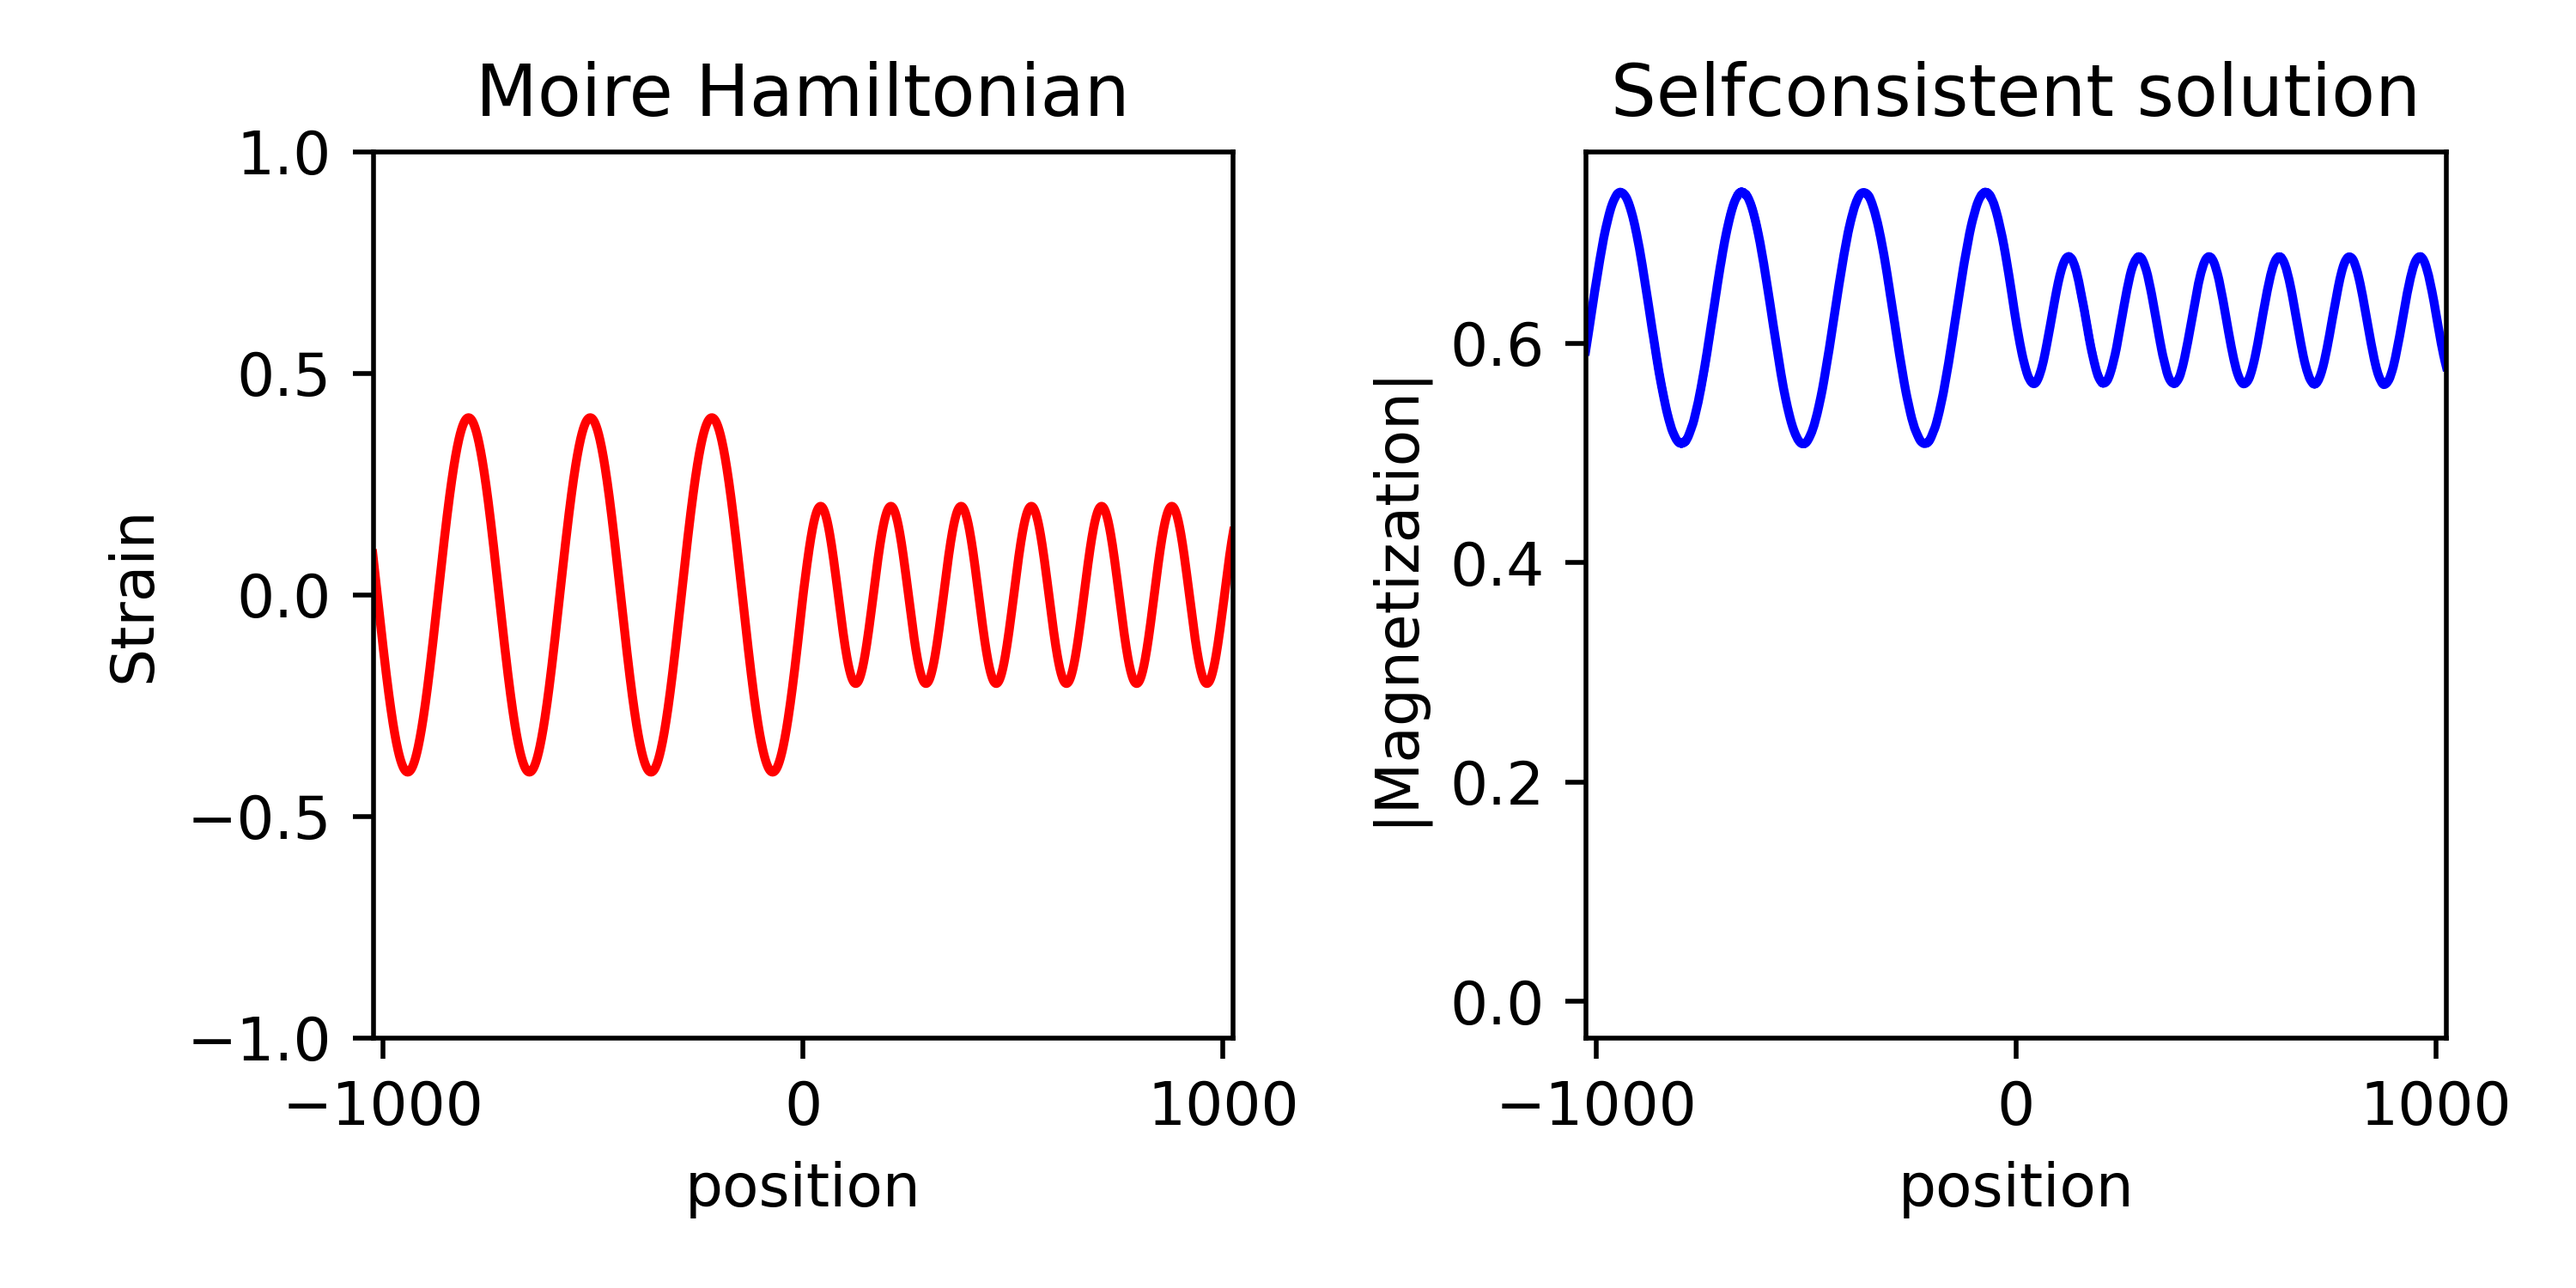
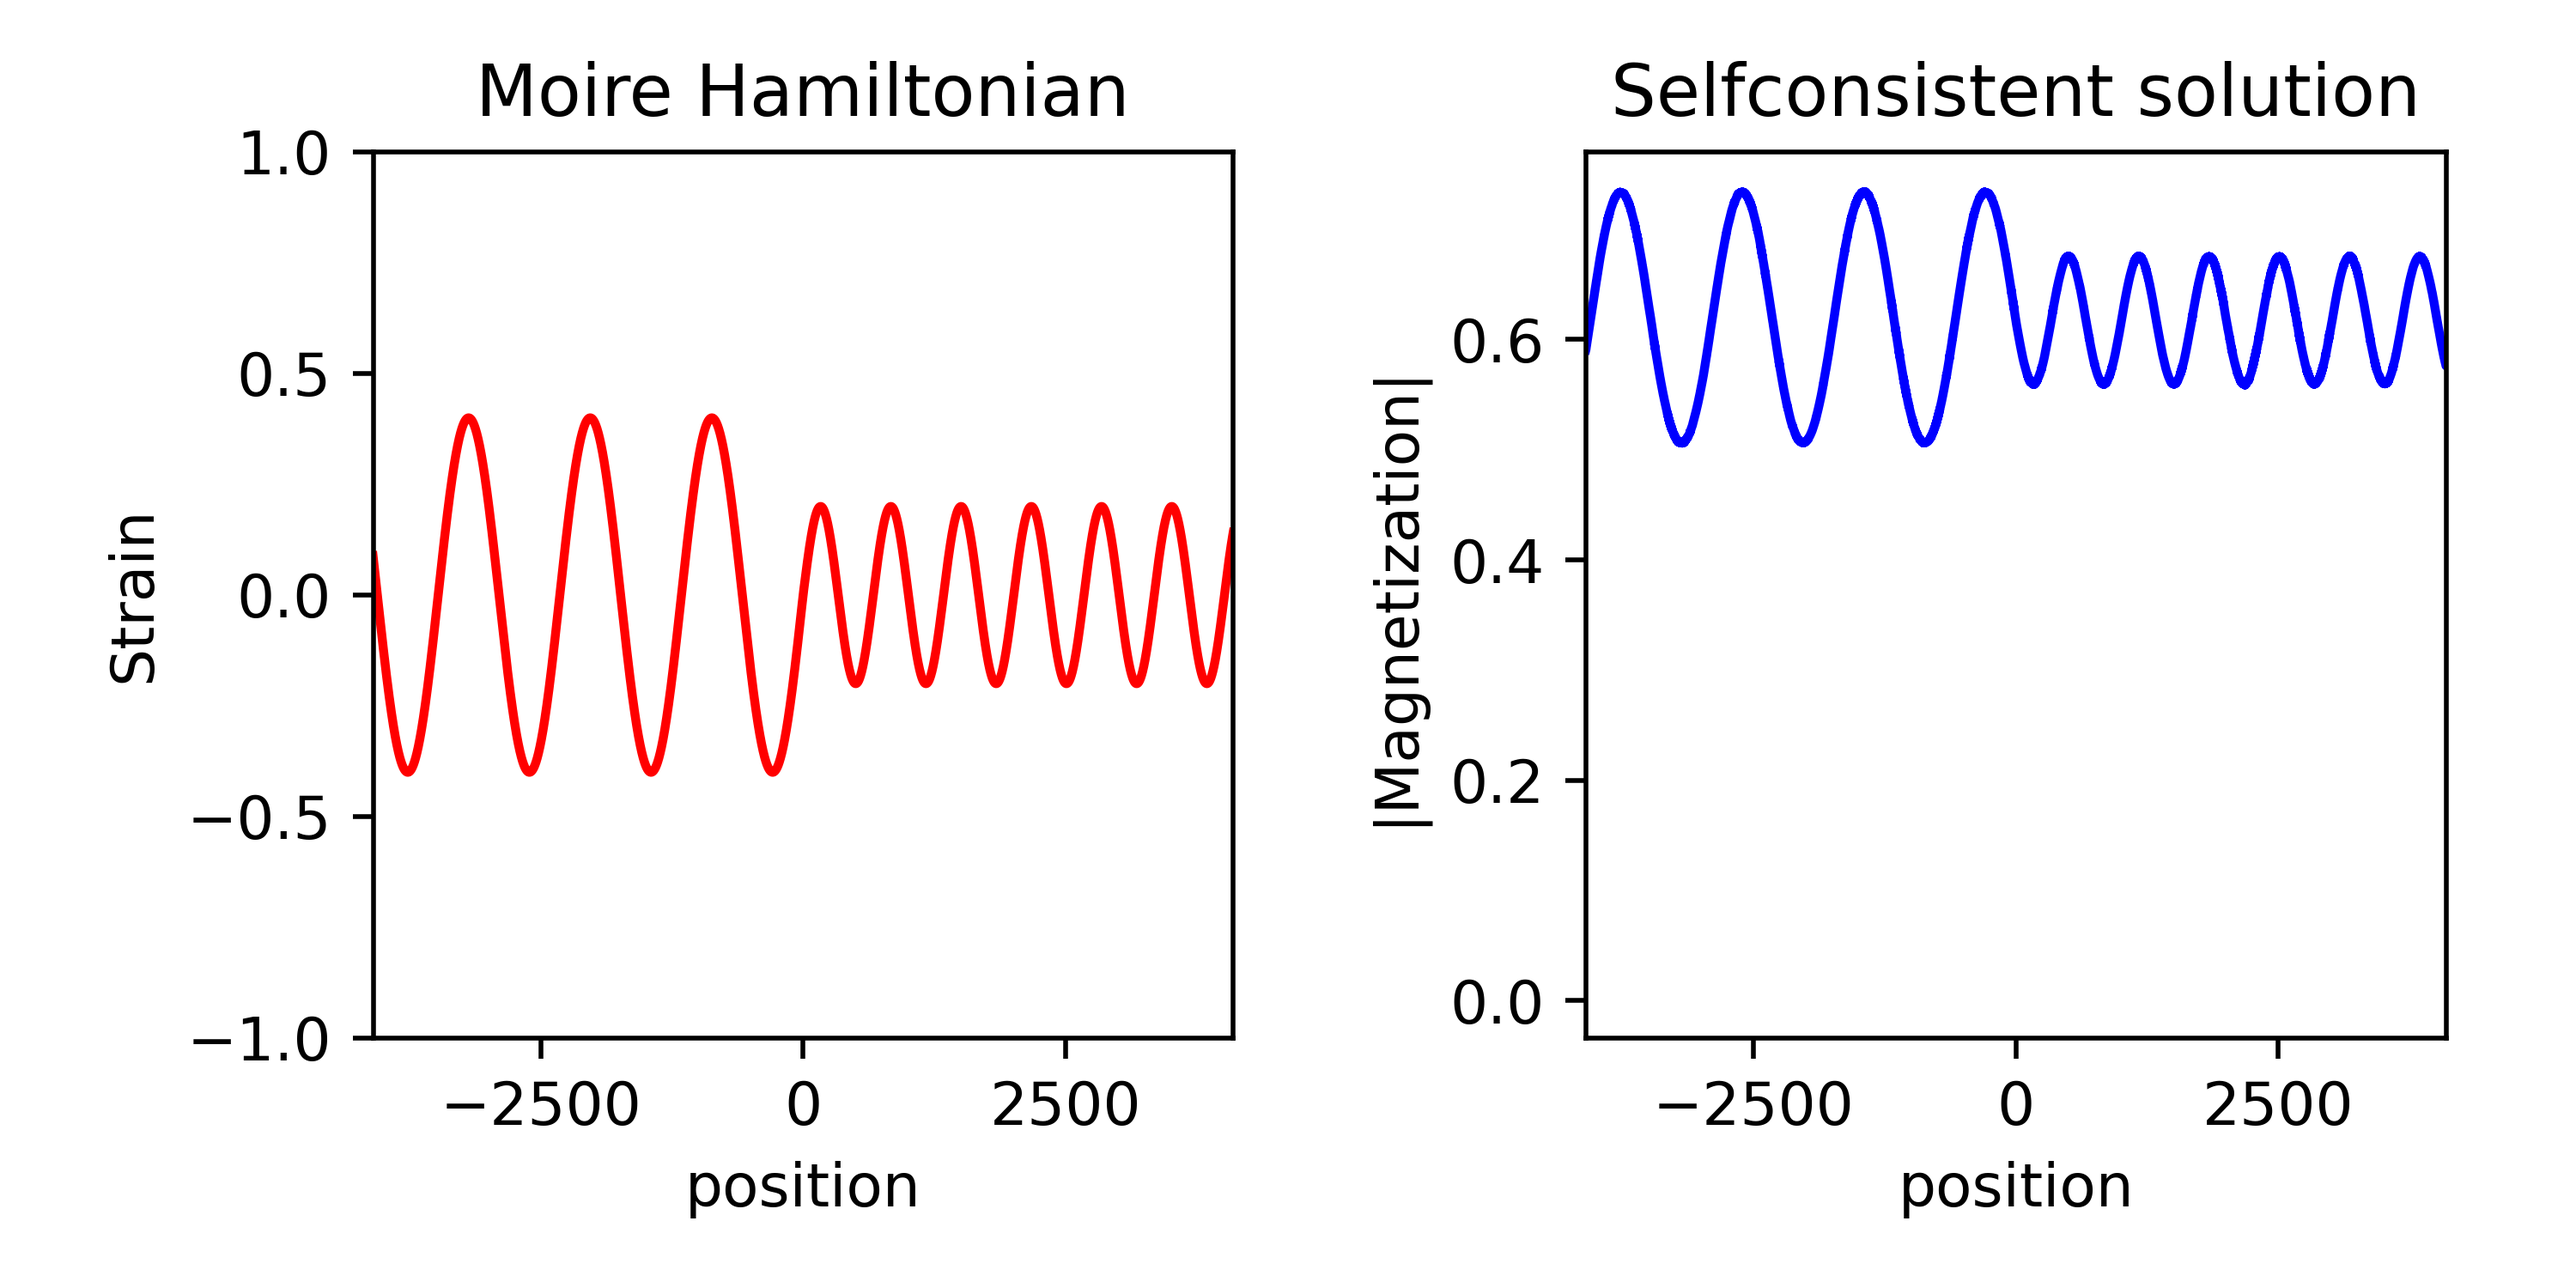
Update

diff --git a/examples/README_examples/interface1d_KPQTC/main.py b/examples/README_examples/interface1d_KPQTC/main.py
@@ -4,7 +4,7 @@ sys.path.append(os.getcwd()+"/../../../src")
 from qtcipy.tbscftk import hamiltonians
 import numpy as np
 
-L = 12 # exponential length, leads to 2**L sites
+L = 14 # exponential length, leads to 2**L sites
 H = hamiltonians.chain(L) # get the Hamiltonian
 
 def f(r):
@@ -18,7 +18,7 @@ H.modify_hopping(f) # modify the hopping
 SCF = H.get_SCF_Hubbard(U=3.0) # generate a selfconsistent object
 
 SCF.solve(use_qtci=True,use_kpm=True,info=True,info_qtci=True,delta=1e-1,
-        maxite=10,use_dynamical_qtci=False,chiral_AF=True)
+        maxite=10,use_dynamical_qtci=True,chiral_AF=True)
 Mz = SCF.Mz # selfconsistent magnetization
 
 

diff --git a/README.md b/README.md
@@ -48,7 +48,7 @@ We will now see how an interface between two moire patterns can be computed
 from qtcipy.tbscftk import hamiltonians
 import numpy as np
 
-L = 12 # exponential length, leads to 2**L sites
+L = 14 # exponential length, leads to 2**L sites
 H = hamiltonians.chain(L) # get the Hamiltonian
 
 def f(r):
